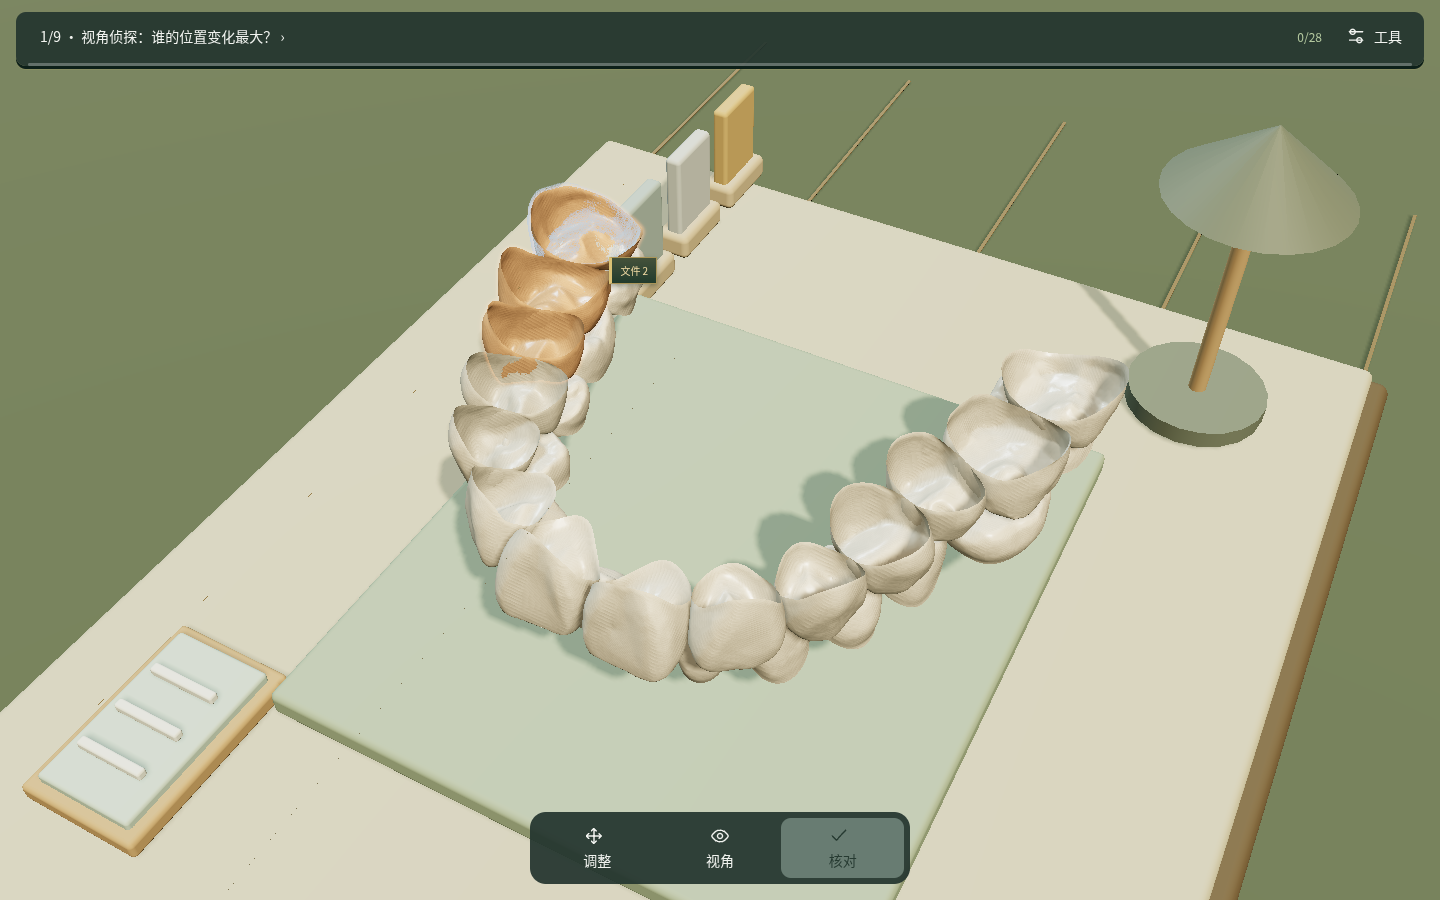
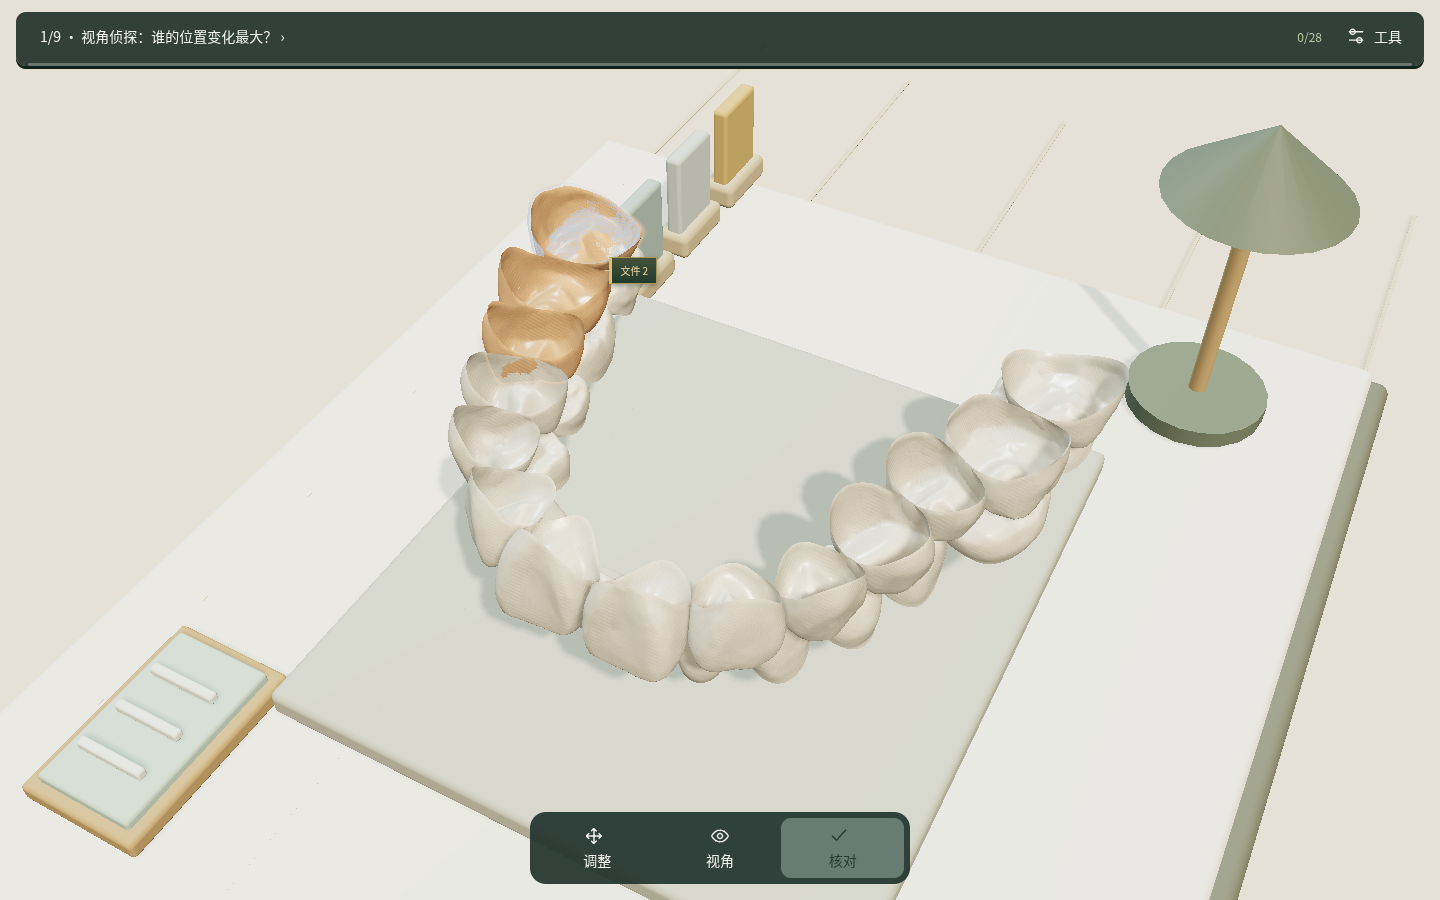
Combine original warm model presentation with compact game UI

diff --git a/chi-xu-workshop/src/scene.ts b/chi-xu-workshop/src/scene.ts
@@ -17,10 +17,10 @@ export class WorkshopScene{
  touchEditing=false;onResize:()=>void=()=>{};
  onSelect:(id:string)=>void=()=>{};onCommit:(id:string,before:Pose,after:Pose)=>void=()=>{};onPreview:(id:string,pose:Pose)=>void=()=>{};onFailure:(message:string)=>void=()=>{};
  constructor(public host:HTMLElement,private offsetForSidebar=true){
-  this.renderer=new T.WebGLRenderer({antialias:true,alpha:false});this.renderer.setPixelRatio(Math.min(devicePixelRatio,2));this.renderer.setClearColor('#414c3c');this.renderer.toneMapping=T.ACESFilmicToneMapping;this.renderer.toneMappingExposure=1.08;this.renderer.shadowMap.enabled=true;this.renderer.shadowMap.autoUpdate=false;this.renderer.shadowMap.needsUpdate=true;this.renderer.shadowMap.type=T.PCFSoftShadowMap;this.renderer.setSize(host.clientWidth,host.clientHeight);host.append(this.renderer.domElement);
-  const ambient=new T.HemisphereLight('#fff1d8','#52604c',1.05);ambient.position.set(0,0,1);this.scene.add(ambient);
-  const light=new T.DirectionalLight('#fff1d4',3.05);light.position.set(-80,-90,150);light.castShadow=true;light.shadow.mapSize.set(1024,1024);light.shadow.camera.left=-120;light.shadow.camera.right=120;light.shadow.camera.top=120;light.shadow.camera.bottom=-120;light.shadow.camera.far=700;light.shadow.bias=-.0001;this.scene.add(light);
-  const fill=new T.DirectionalLight('#dcecf4',.85);fill.position.set(80,50,60);this.scene.add(fill);
+  this.renderer=new T.WebGLRenderer({antialias:true,alpha:false});this.renderer.setPixelRatio(Math.min(devicePixelRatio,2));this.renderer.setClearColor('#e3dfd4');this.renderer.toneMapping=T.ACESFilmicToneMapping;this.renderer.toneMappingExposure=1.08;this.renderer.shadowMap.enabled=true;this.renderer.shadowMap.autoUpdate=false;this.renderer.shadowMap.needsUpdate=true;this.renderer.shadowMap.type=T.PCFSoftShadowMap;this.renderer.setSize(host.clientWidth,host.clientHeight);host.append(this.renderer.domElement);
+  const ambient=new T.HemisphereLight('#fff8e8','#a1a39c',1.35);ambient.position.set(0,0,1);this.scene.add(ambient);
+  const light=new T.DirectionalLight('#fff4df',2.6);light.position.set(-80,-90,150);light.castShadow=true;light.shadow.mapSize.set(1024,1024);light.shadow.camera.left=-120;light.shadow.camera.right=120;light.shadow.camera.top=120;light.shadow.camera.bottom=-120;light.shadow.camera.far=700;light.shadow.bias=-.0001;this.scene.add(light);
+  const fill=new T.DirectionalLight('#dcecf4',1.1);fill.position.set(80,50,60);this.scene.add(fill);
   const rim=new T.DirectionalLight('#c5e4ee',1.4);rim.position.set(20,100,90);this.scene.add(rim);
   this.camera.up.set(0,0,1);this.camera.position.set(100,-100,100);
   this.orbit=new OrbitControls(this.camera,this.renderer.domElement);this.orbit.enableDamping=true;this.orbit.addEventListener('change',()=>{this.dirty=true;});this.orbit.minDistance=1;this.orbit.maxDistance=500;
@@ -51,12 +51,12 @@ export class WorkshopScene{
  makeFurniture(box:T.Box3){
   const d=this.size;const c=this.center;const z=box.min.z-d*.12;
   const rounded=(w:number,h:number,t:number,color:string,x:number,y:number,height:number)=>{const m=new T.Mesh(new RoundedBoxGeometry(w,h,t,3,Math.min(w,h,t)*.25),new T.MeshStandardMaterial({color,roughness:.65}));m.position.set(x,y,height);m.receiveShadow=true;m.castShadow=true;this.furniture.add(m);return m;};
-  rounded(d*1.65,d*1.35,d*.065,'#695b42',c.x,c.y,z-d*.09);
-  rounded(d*1.59,d*1.29,d*.05,'#beb99d',c.x,c.y,z-d*.045);
-  rounded(d*.82,d*.72,d*.035,'#9aab92',c.x,c.y,z);
+  rounded(d*1.65,d*1.35,d*.065,'#77796b',c.x,c.y,z-d*.09);
+  rounded(d*1.59,d*1.29,d*.05,'#eeeadf',c.x,c.y,z-d*.045);
+  rounded(d*.82,d*.72,d*.035,'#b8b9ab',c.x,c.y,z);
   for(let i=0;i<3;i++){rounded(d*.12,d*.055,d*.04,'#c6b594',c.x+d*(.46+i*.15),c.y+d*.38,z);rounded(d*.1,d*.025,d*.14,['#a1b3ae','#c1c8c4','#c8aa70'][i],c.x+d*(.46+i*.15),c.y+d*.38,z+d*.08);}
-  for(let i=0;i<5;i++)rounded(d*2.8,d*.006,d*.002,'#80704f',c.x,c.y+d*(i*.32-.64),z-d*.135);
-  const floor=new T.Mesh(new T.PlaneGeometry(d*20,d*20),new T.MeshStandardMaterial({color:'#59634d',roughness:1}));floor.position.set(c.x,c.y,z-d*.14);floor.receiveShadow=true;this.furniture.add(floor);
+  for(let i=0;i<5;i++)rounded(d*2.8,d*.006,d*.002,'#d6c4a8',c.x,c.y+d*(i*.32-.64),z-d*.135);
+  const floor=new T.Mesh(new T.PlaneGeometry(d*20,d*20),new T.MeshStandardMaterial({color:'#dfd1ba',roughness:1}));floor.position.set(c.x,c.y,z-d*.14);floor.receiveShadow=true;this.furniture.add(floor);
   this.gizmo.scale.setScalar(d*.1);this.gizmo.position.set(c.x-d*.6,c.y-d*.45,z);this.gizmo.visible=false;this.furniture.add(this.gizmo);
   const wood='#b99b70',mint='#737c6c';
   // Decorative lamp and tray sit outside the dental work area; they have no click behavior.

diff --git a/chi-xu-workshop/docs/VALIDATION.md b/chi-xu-workshop/docs/VALIDATION.md
@@ -1,3 +1,12 @@
+## 2026-10-27 旧版模型观感与新版 UI 合并
+
+按两段演示视频的反馈，将旧版 `42187c0` 的渲染器、暖白主光/环境光/补光和全部布景色恢复到当前版本。牙齿网格与材质原本一致，本次通过恢复浅色桌面、中性底座和灯光，去除新版场景对牙模观感的黄绿影响；保留当前顶部任务进度、底部三操作、折叠工具、直接拖动及全部关卡/存档逻辑。
+
+- 构建与 83 项单元检查通过。渲染器/灯光段与 makeFurniture 段逐字比对旧版一致。
+- 5 项三段式浏览器回归通过：桌面操作与工具入口，鼠标平移/旋转与取消，手机布局/只读回放，触摸提交/取消，原始/参考切换与存档保护。
+- 桌面、手机、操作后和原始/参考运行截图更新于 `docs/screenshots/compact-*.png` 与 `observation-reference*.png`。已目视核对桌面与手机画面。
+- 未改动 public 牙模资产、参考目标、关卡容差、新版 UI 样式或存档格式；Windows 原生启动未在云端复测。
+
 ## 2026-10-26 观察对比入口修复
 
 比较类题目采用明确的原始/参考入口和当前状态文字，查看模型时收起任务表单，同一镜头只读切换两种真实位姿；对比时保留任务牙高亮和点击辨认。查看两种状态与两个视角后才能作答，已完成观察的旧进度不重置。
